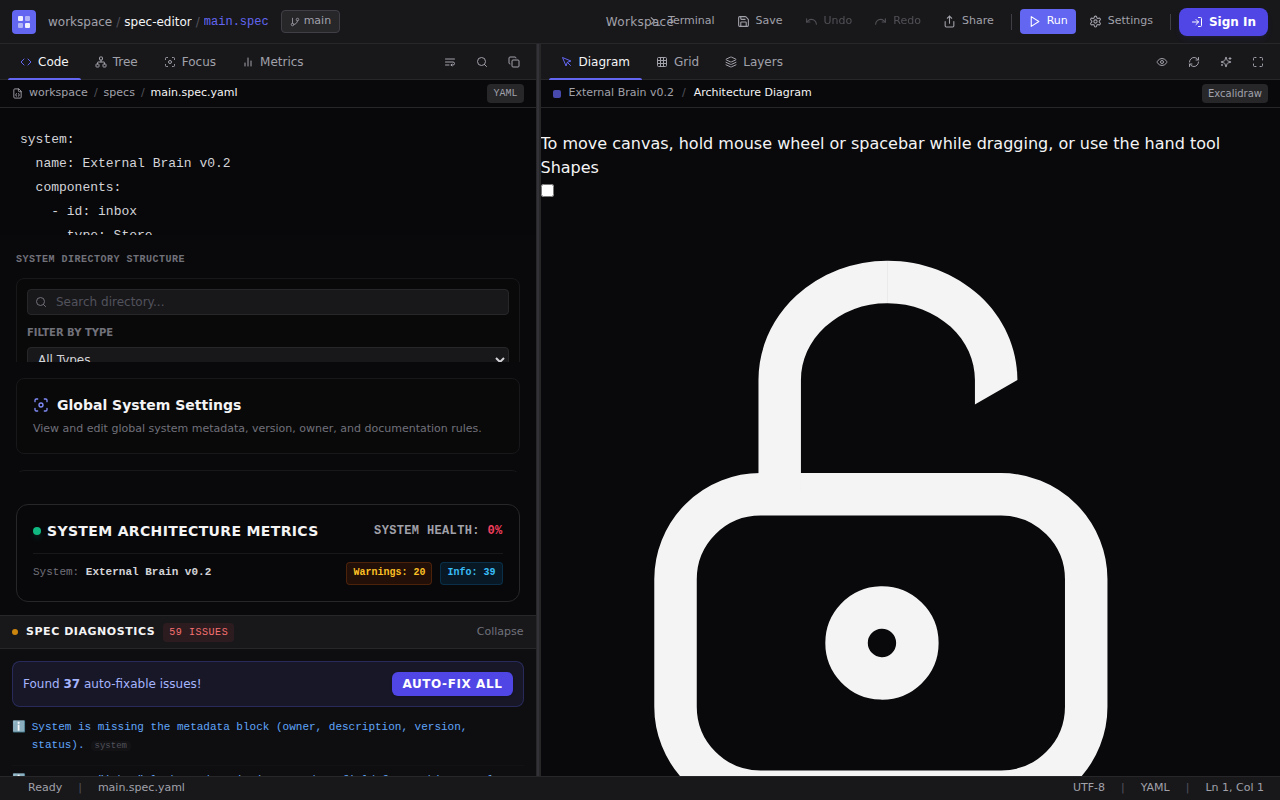
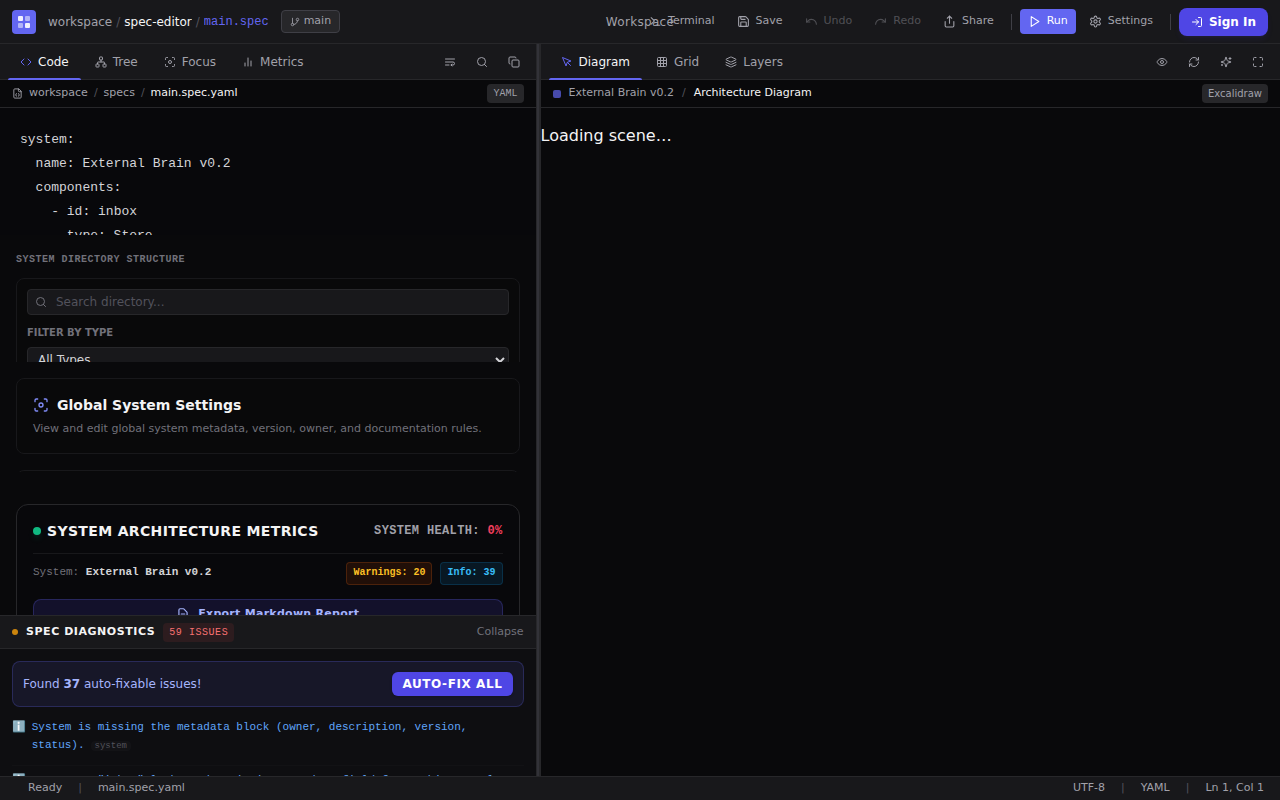
feat(stride): implement STRIDE Secret Leakage threat auditing with auto-remediation

diff --git a/tests/stride-secret-leakage.test.tsx b/tests/stride-secret-leakage.test.tsx
@@ -1,0 +1,82 @@
+import { describe, test, expect } from 'vitest'
+import { lintSpec } from '../lib/linter'
+import { reconcileSpec } from '../lib/reconciler'
+import yaml from 'yaml'
+
+describe('STRIDE Secret Leakage Linter Rule & Quick Fix', () => {
+  test('flags component metadata containing a sensitive key with a real value as stride-secret-leak warning', () => {
+    const spec = {
+      system: {
+        name: 'Secret Leak System',
+        components: [
+          {
+            id: 'auth_service',
+            type: 'Stage',
+            metadata: {
+              api_key: 'sk_live_abcdef123456',
+              password: 'super-secret-password-99'
+            }
+          }
+        ]
+      }
+    }
+
+    const diagnostics = lintSpec(spec)
+    const secretLeaks = diagnostics.filter(d => d.code === 'stride-secret-leak')
+    expect(secretLeaks.length).toBe(2)
+
+    const keyLeak = secretLeaks.find(d => d.path === 'system.components[0].metadata.api_key')
+    expect(keyLeak).toBeDefined()
+    expect(keyLeak?.severity).toBe('warning')
+    expect(keyLeak?.message).toContain('Potential hardcoded secret or token detected in metadata key "api_key"')
+
+    const passLeak = secretLeaks.find(d => d.path === 'system.components[0].metadata.password')
+    expect(passLeak).toBeDefined()
+    expect(passLeak?.severity).toBe('warning')
+    expect(passLeak?.message).toContain('Potential hardcoded secret or token detected in metadata key "password"')
+  })
+
+  test('does NOT flag placeholder values, empty strings, or env var reference formats', () => {
+    const spec = {
+      system: {
+        name: 'Secure System',
+        components: [
+          {
+            id: 'auth_service',
+            type: 'Stage',
+            metadata: {
+              api_key: '${API_KEY}',
+              password: 'todo',
+              token: 'TBD',
+              session_secret: 'placeholder',
+              db_pass: '',
+              owner: 'security-team'
+            }
+          }
+        ]
+      }
+    }
+
+    const diagnostics = lintSpec(spec)
+    const secretLeaks = diagnostics.filter(d => d.code === 'stride-secret-leak')
+    expect(secretLeaks.length).toBe(0)
+  })
+
+  test('reconciles stride-secret-leak by replacing the hardcoded secret with an env var placeholder', () => {
+    const initialYaml = `system:
+  name: Secret Leak System
+  components:
+    - id: auth_service
+      type: Stage
+      metadata:
+        password: my-hardcoded-secret-password
+`
+    const updated = reconcileSpec(initialYaml, {
+      type: 'quick-fix',
+      payload: { path: 'system.components[0].metadata.password', fixType: 'stride-secret-leak' }
+    })
+
+    const parsed = yaml.parse(updated)
+    expect(parsed.system.components[0].metadata.password).toBe('${SENSITIVE_VALUE_PLACEHOLDER}')
+  })
+})

diff --git a/lib/linter.ts b/lib/linter.ts
@@ -1156,6 +1156,33 @@ export function lintSpec(parsedSpec: any): Diagnostic[] {
           code: "stride-denial-of-service"
         })
       }
+
+      // 7. Information Disclosure: Hardcoded Secret/Token Leakage Check in Component Metadata
+      if (comp.metadata && typeof comp.metadata === "object" && !Array.isArray(comp.metadata)) {
+        const sensitiveRegex = /(?:^|[^a-zA-Z0-9])(secret|password|token|api_key|apikey|private_key|passwd)(?:$|[^a-zA-Z0-9])/i
+        const placeholderRegex = /^(todo|tbd|placeholder|\[add description\]|\[add owner\]|none|disabled|null|false)$/i
+        
+        Object.keys(comp.metadata).forEach((k) => {
+          if (sensitiveRegex.test(k)) {
+            const val = comp.metadata[k]
+            if (val !== undefined && val !== null) {
+              const valStr = String(val).trim()
+              if (
+                valStr !== "" &&
+                !valStr.startsWith("${") &&
+                !placeholderRegex.test(valStr)
+              ) {
+                diagnostics.push({
+                  severity: "warning",
+                  message: `Potential hardcoded secret or token detected in metadata key "${k}". Storing raw credentials in system blueprints is an Information Disclosure vulnerability (STRIDE).`,
+                  path: `system.components[${compIdx}].metadata.${k}`,
+                  code: "stride-secret-leak",
+                })
+              }
+            }
+          }
+        })
+      }
     })
   }
 

diff --git a/components/workspace/editor-panel.tsx b/components/workspace/editor-panel.tsx
@@ -3752,7 +3752,8 @@ const FIXABLE_DIAGNOSTIC_CODES = new Set([
   "missing-system-metadata-owner",
   "unrecognized-system-metadata-key",
   "missing-connection-label",
-  "duplicate-connection-label"
+  "duplicate-connection-label",
+  "stride-secret-leak"
 ])
 
 export function EditorPanel({
@@ -4443,6 +4444,14 @@ export function EditorPanel({
                           className="px-1.5 py-0.5 rounded text-[9px] font-sans font-bold uppercase tracking-wide bg-indigo-500/10 hover:bg-indigo-500/20 text-indigo-400 border border-indigo-500/20 transition-all"
                         >
                           Set to Stage
+                        </button>
+                      )}
+                      {d.code === "stride-secret-leak" && (
+                        <button
+                          onClick={() => handleQuickFix(d.path!, "stride-secret-leak")}
+                          className="px-1.5 py-0.5 rounded text-[9px] font-sans font-bold uppercase tracking-wide bg-amber-500/10 hover:bg-amber-500/20 text-amber-400 border border-amber-500/20 transition-all"
+                        >
+                          Use Environment Variable
                         </button>
                       )}
                       {d.code === "invalid-metadata-object" && (

diff --git a/lib/reconciler.ts b/lib/reconciler.ts
@@ -452,6 +452,9 @@ export function reconcileSpec(specText: string, change: CanvasChange): string {
       } else if (fixType === "placeholder-system-metadata-owner" || fixType === "missing-system-metadata-owner") {
         doc.setIn(parts, "architecture-team")
         modified = true
+      } else if (fixType === "stride-secret-leak") {
+        doc.setIn(parts, "${SENSITIVE_VALUE_PLACEHOLDER}")
+        modified = true
       } else if (fixType === "missing-component-id") {
         const compNode = doc.getIn(parts) as any
         if (compNode && typeof compNode.set === "function" && typeof compNode.get === "function") {

diff --git a/components/workspace/canvas-panel.tsx b/components/workspace/canvas-panel.tsx
@@ -110,7 +110,8 @@ const FIXABLE_DIAGNOSTIC_CODES = new Set([
   "missing-system-metadata-owner",
   "unrecognized-system-metadata-key",
   "missing-connection-label",
-  "duplicate-connection-label"
+  "duplicate-connection-label",
+  "stride-secret-leak"
 ])
 
 export function CanvasPanel({

diff --git a/scripts/capture_storyboard.py b/scripts/capture_storyboard.py
@@ -1,0 +1,64 @@
+import asyncio
+import os
+from playwright.async_api import async_playwright
+
+async def main():
+    async with async_playwright() as p:
+        print("Launching Chromium (/usr/bin/chromium-browser)...")
+        browser = await p.chromium.launch(
+            executable_path="/usr/bin/chromium-browser",
+            args=["--no-sandbox", "--disable-gpu", "--disable-dev-shm-usage"]
+        )
+        page = await browser.new_page()
+        await page.set_viewport_size({"width": 1440, "height": 900})
+        
+        print("Navigating to http://localhost:3001...")
+        try:
+            await page.goto("http://localhost:3001", wait_until="networkidle", timeout=30000)
+        except Exception as e:
+            print(f"Warning during goto: {e}")
+            
+        print("Waiting for spec hydration...")
+        await page.wait_for_selector("[data-component-id]", timeout=20000)
+        await asyncio.sleep(2) # brief sleep to ensure state is settled
+        
+        base_dir = os.path.dirname(os.path.dirname(os.path.abspath(__file__)))
+        
+        # 1. Capture Raw YAML view
+        print("Capturing 1. Code View...")
+        await page.screenshot(path=os.path.join(base_dir, "storyboard-1-code.png"))
+        
+        # 2. Capture Tree Explorer view
+        print("Switching to Tree Tab...")
+        await page.click("#tab-tree")
+        await asyncio.sleep(1)
+        print("Capturing 2. Tree View...")
+        await page.screenshot(path=os.path.join(base_dir, "storyboard-2-tree.png"))
+        
+        # 3. Click 'inbox' component with force=True to select it
+        print("Selecting 'inbox' component with force=True...")
+        try:
+            await page.click("[data-component-id='inbox']", force=True)
+            await asyncio.sleep(1)
+        except Exception as e:
+            print(f"Click warning: {e}")
+        
+        # 4. Switch to Focus Tab and capture it
+        print("Switching to Focus Tab...")
+        await page.click("#tab-focus")
+        await asyncio.sleep(1)
+        print("Capturing 3. Focus View...")
+        await page.screenshot(path=os.path.join(base_dir, "storyboard-3-focus.png"))
+        
+        # 5. Switch to Metrics Tab and capture it
+        print("Switching to Metrics Tab...")
+        await page.click("#tab-metrics")
+        await asyncio.sleep(1)
+        print("Capturing 4. Metrics View...")
+        await page.screenshot(path=os.path.join(base_dir, "storyboard-4-metrics.png"))
+        
+        print("SUCCESS: All 4 storyboard screenshots captured successfully!")
+        await browser.close()
+
+if __name__ == "__main__":
+    asyncio.run(main())
